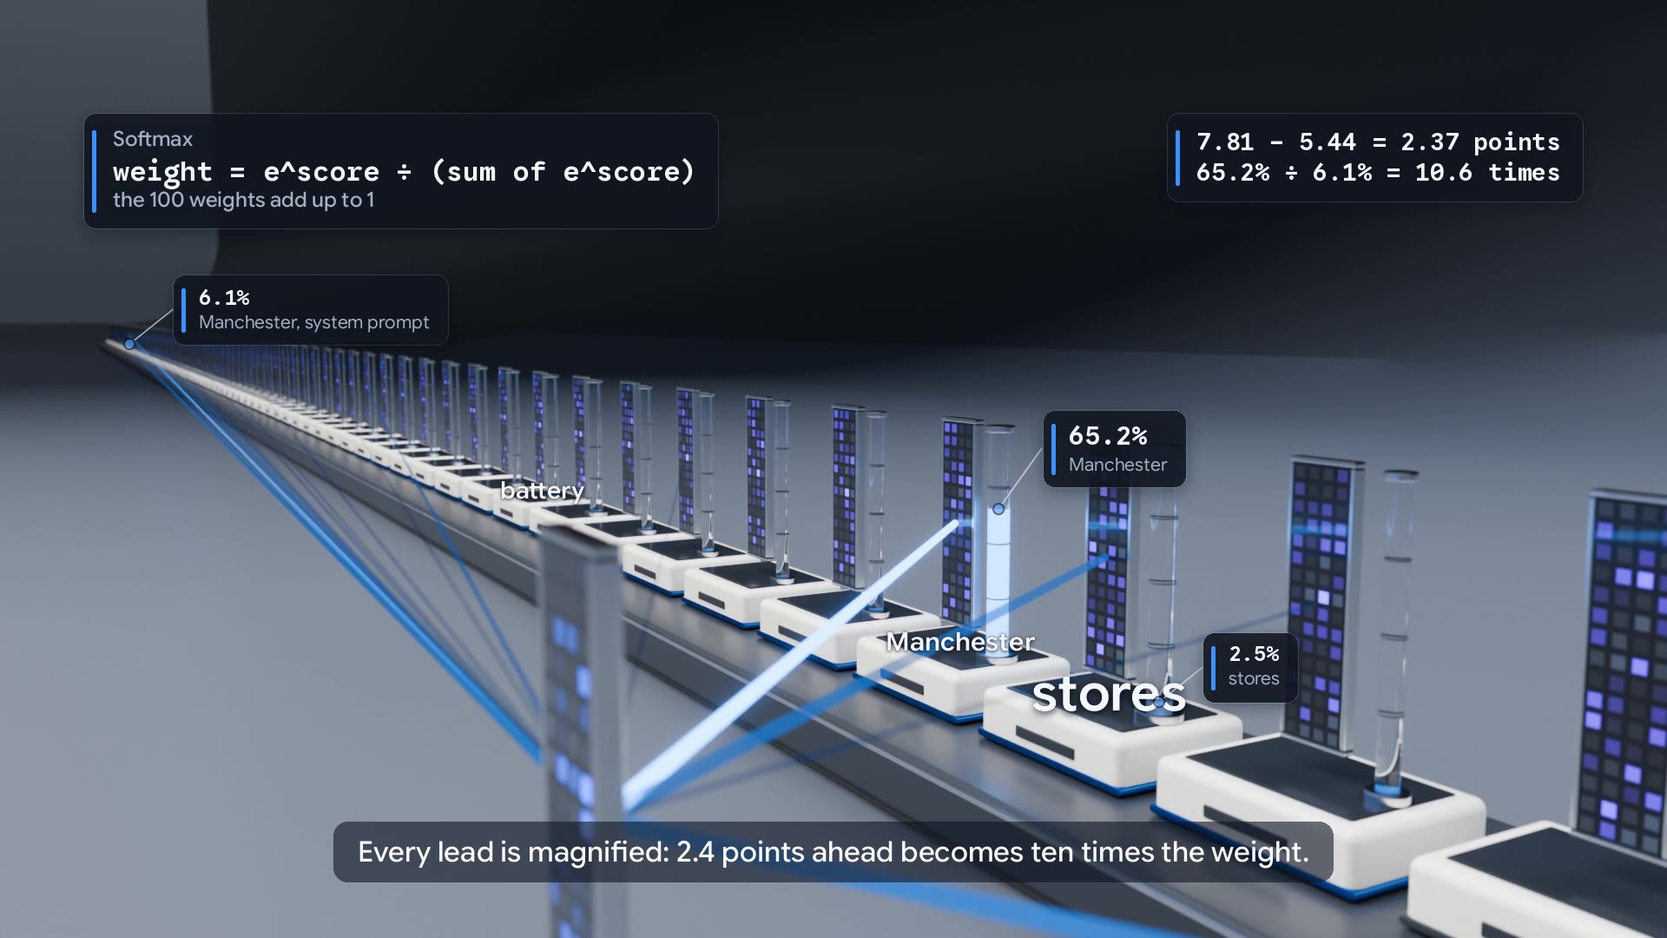
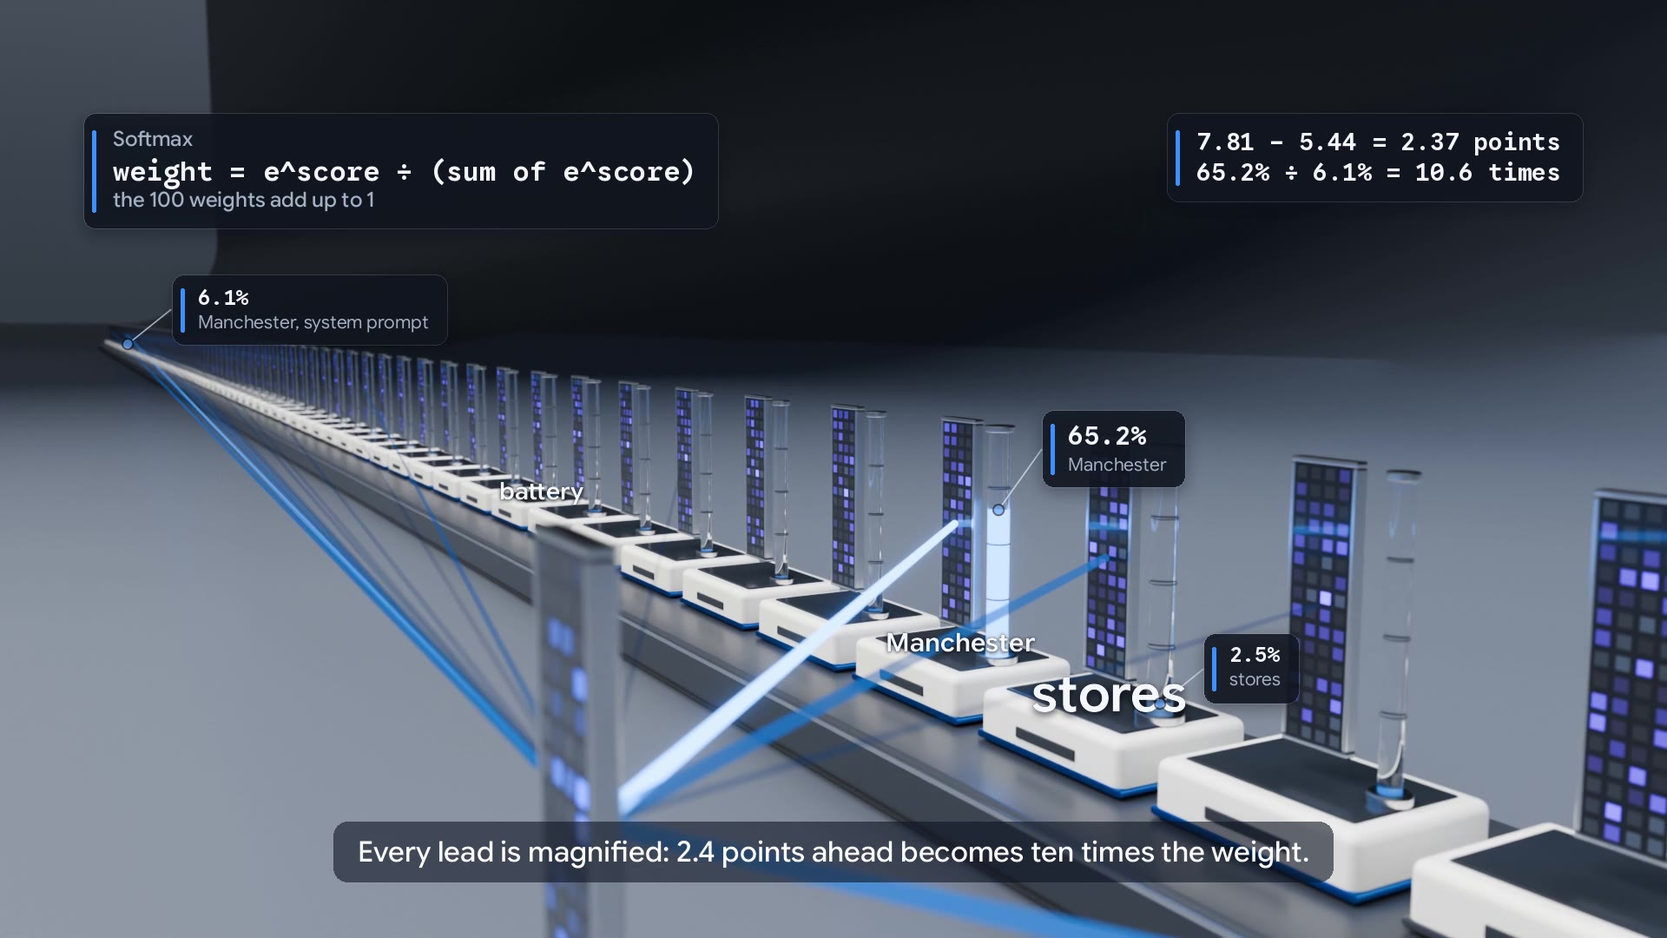
L2: structure film (blocks and heads) restored in section 5; all 13 films on the Observatory music; qkv without blocks or heads

diff --git a/lectures/L2-the-brain/index.html b/lectures/L2-the-brain/index.html
@@ -319,6 +319,11 @@
   </div>
 </section>
 
+<section class="slide" data-plate="Film · Blocks and heads">
+  <div class="lec-top" style="top:96px"><h2 style="font-size:44px">Film · Blocks and heads</h2></div>
+  <div class="fig" data-fig="film" data-name="structure" data-what="the structure: 24 blocks, 14 heads each." style="left:250px;top:180px;width:1100px;height:619px"></div>
+</section>
+
 <section class="slide" data-plate="Film · Attention, inside the model">
   <div class="lec-top" style="top:96px"><h2 style="font-size:44px">Film · Attention, inside the model</h2></div>
   <div class="fig" data-fig="film" data-name="s4_attention" data-what="tokens looking back, with the real weights." style="left:250px;top:180px;width:1100px;height:619px"></div>

diff --git a/lectures/L2-the-brain/films/build/specs/structure.py b/lectures/L2-the-brain/films/build/specs/structure.py
@@ -45,7 +45,7 @@ def elements(tl):
                         {"text": "it never looks at the other tokens", "size": 24, "c": "slate"}]})
     E.append({"type": "pin", "anchor": "row_pin", "text": "Emma's question: 100 tokens", "sub": "one column per token  ·  first 16 of 896 numbers shown",
               "accent": "sky", "t0": w("b4", "tokens"), "t1": w("b4", "climb") - 0.2, "dx": -40, "dy": -70, "size": 28})
-    for i, nm in ((86, "battery"), (92, "Manchester"), (99, "position 100")):
+    for i, nm in ((86, "battery"), (92, "Manchester"), (99, "the last token")):
         E.append({"type": "tag", "anchor": f"row_c{i}", "text": nm, "t0": w("b4", "bottom"), "t1": w("b4", "climb") - 0.2, "size": 22,
                   "hl": "sky" if i == 99 else None, "place": "tc", "dy": 40 if i == 92 else 8, "mono": False, "maxdepth": 6})
     E.append({"type": "chip", "x": 96, "y": 130, "t0": w("b4", "every"), "t1": en("b4") + 0.4, "accent": "sky",

diff --git a/lectures/L2-the-brain/films/FILMS.md b/lectures/L2-the-brain/films/FILMS.md
@@ -1,29 +1,31 @@
 # Lecture 2 films (The Brain)
 
-Eleven narrated Blender Cycles films on Emma's question ("How many city e-bike battery packs do we have in Manchester stores?"), the same example the slides teach, run through Qwen2.5-0.5B-Instruct. Each film plays at the **end** of its section as the recap, after the theory. Every number on screen comes from a recorded run (`../brain3d/trace.json`, `qkv_data.json`, `../experiments/logs/`).
+Thirteen narrated Blender Cycles films on Emma's question ("How many city e-bike battery packs do we have in Manchester stores?"), the same example the slides teach, run through Qwen2.5-0.5B-Instruct. Each film plays at the **end** of its section as the recap, after the theory. Every number on screen comes from a recorded run (`../brain3d/trace.json`, `qkv_data.json`, `../experiments/logs/`).
 
 Embed with `<video controls preload="metadata" poster="films/<name>.jpg">` and two `<source>` lines (`.webm` first, then `.mp4`). Never autoplay. Files: `films/<name>.mp4` (H.264, faststart), `films/<name>.webm` (VP9 + Opus) and `films/<name>.jpg` (poster). All are 1920x1080 at 30 fps, mixed to -16 LUFS integrated, true peak about -1.5 dBFS.
 
 | Base name | Plays at the end of section | Duration | mp4 | webm |
 |---|---|---|---|---|
-| `overture` | Lecture opener (before section 1) | 0:41 (41.3 s) | 21.4 MB | 21.7 MB |
-| `s1_game` | 1 | 1:18 (77.7 s) | 24.2 MB | 24.5 MB |
-| `s2_tokens` | 2 | 1:49 (108.6 s) | 24.2 MB | 26.4 MB |
-| `s3_vectors` | 3 | 1:22 (82.5 s) | 24.1 MB | 25.8 MB |
-| `qkv` | 4, after the Q/K/V theory | 2:26 (146.2 s) | 24.3 MB | 26.1 MB |
-| `s4_attention` | 4, end | 1:26 (86.3 s) | 24.2 MB | 25.3 MB |
-| `s5_blocks` | 5 | 1:13 (72.6 s) | 24.2 MB | 25.0 MB |
-| `s6_choice` | 6 | 1:14 (73.6 s) | 23.8 MB | 25.4 MB |
-| `s7_loop` | 7 | 1:15 (74.6 s) | 24.0 MB | 23.9 MB |
-| `s8_weights` | 8 | 1:23 (83.2 s) | 24.2 MB | 26.5 MB |
-| `s9_fix` | 9 | 1:13 (72.7 s) | 24.1 MB | 24.9 MB |
+| `overture` | lecture opener | 0:46 (45.9 s) | 23.6 MB | 24.8 MB |
+| `s1_game` | 1 | 1:22 (82.5 s) | 24.2 MB | 24.5 MB |
+| `s2_tokens` | 2 | 1:34 (93.9 s) | 24.1 MB | 25.6 MB |
+| `s3_vectors` | 3 | 1:22 (82.5 s) | 24.0 MB | 25.6 MB |
+| `qkv` | 4 (end): attention, the mechanism | 2:26 (146.5 s) | 24.3 MB | 25.8 MB |
+| `structure` | 5 (start): 24 blocks, 14 heads | 1:19 (79.0 s) | 23.7 MB | 26.3 MB |
+| `s4_attention` | 5: what the real heads look at | 1:26 (86.3 s) | 24.1 MB | 25.2 MB |
+| `s5_blocks` | 5 (end) | 1:13 (72.6 s) | 24.2 MB | 24.7 MB |
+| `s6_choice` | 6 | 1:14 (73.6 s) | 23.8 MB | 25.3 MB |
+| `s7_loop` | 7 | 1:15 (74.6 s) | 24.0 MB | 23.7 MB |
+| `s8_weights` | 8 | 1:23 (83.2 s) | 24.1 MB | 26.4 MB |
+| `s9_fix` | 9 | 1:13 (72.7 s) | 24.0 MB | 24.7 MB |
+| `finale` | lecture close: the whole machine | 1:54 (114.3 s) | 24.0 MB | 25.2 MB |
 
 ## Look and sound (one series)
 
 - **World:** one shared kit, `build/kit/l2kit.py`. It is a "midnight slate" studio: a deep blue-grey sweep graded to black, one big soft key, a cool rim light, a low warm fill, and lights hidden from reflections. The set has a dark graphite plinth with an aluminium trim and ceramic token tiles with smoked-glass faces and role bands (sky for Emma, slate for system, warm grey for chat markers).
 - **Props:** vectors are dark-glass plates in machined frames whose cells glow with the real values (query sky, key violet, value warm white). Glass columns fill with light to show scores and weights. Light beams and arcs carry attention. The model is a 24-floor block stack with 14 head modules per floor. Rendered on Modal (L40S, Cycles, 96 samples, OIDN).
 - **Text:** all readable text is a 2D overlay in Google Sans Flex / Google Sans Code (`build/overlay.py`): dark-glass pinned cards, formula chips, typed titles, subtitles and an end card. Hero tokens carry their word on the tile face; small labels appear only on tiles at least ~40 px wide, never overlap, and are never truncated.
-- **Sound:** narration by ElevenLabs Daniel (`onwK4e9ZLuTAKqWW03F9`, eleven_multilingual_v2, speed 1.08). The music bed is "Tried-And-True" by Imprismed (Epidemic Sound), ducked under the voice with a sidechain compressor. It is different from L1's "Envision" and lives in `films/music/`, which is gitignored. A designed SFX set (`build/sfx/`, ElevenLabs sound generation) adds tile, rise, beam, fill, chime, tick, bloom, merge, resolve and whoosh sounds.
+- **Sound:** narration by ElevenLabs Daniel (`onwK4e9ZLuTAKqWW03F9`, eleven_multilingual_v2, speed 1.08). The music bed is L1's track, "Observatory" by Out To The World (Epidemic Sound), in every film (Rajat, 31 Oct). `overlay.mix_audio` levels it against the voice: about 26 dB under the narration while Daniel speaks and 22 dB under in the gaps, with 0.4 s ramps. The whole mix is then two-pass loudness-normalised to -16 LUFS. The file lives in `films/music/`, which is gitignored. A designed SFX set (`build/sfx/`, ElevenLabs sound generation) adds tile, rise, beam, fill, chime, tick, bloom, merge, resolve and whoosh sounds.
 
 ## How to rebuild
 ```sh
@@ -37,7 +39,7 @@ The Modal volume is `video-ad-edit:/l2films` in workspace rajatworkspace. Scenes
 
 ## The films
 
-### `overture`: The Brain (section Lecture opener (before section 1))
+### `overture`: The Brain (lecture opener)
 
 **Shots.** Emma's question lights tile by tile on the strip; a slow pass over the 24-floor stack as it runs; the ember "100" lands beside the green Ledgerline plaque "5,400".
 
@@ -47,11 +49,11 @@ The Modal volume is `video-ad-edit:/l2films` in workspace rajatworkspace. Scenes
 
 > One question. How many city e-bike battery packs do we have in Manchester stores?
 >
-> One hundred tokens go in. Twenty-four blocks of a real language model turn them over. At every step, one token is chosen from 151,936.
+> One hundred tokens go in. Twenty-four blocks of a real language model read them all, in one pass, and at the end one token is chosen, from 151,936. Then the pass runs again, for the next token.
 >
 > And out comes a confident answer: 100. The truth is 5,400. Today we open the machine, and find out where that number came from.
 
-### `s1_game`: The game: predict the next token (section 1)
+### `s1_game`: Next-token prediction (section 1)
 
 **Shots.** Sealed model enclosure (24-floor stack seen through a frosted window) fed by the 100-tile strip; next-token glass columns on a tray (We 56.4, As 7.9, Manchester 6.1, In 5.3, Our 4.2, At 2.8); the "We" tile flies to the strip, " currently", " have", " " join; digit columns (1 33.6, 2 20.8, 5 11.6, 3 11.3, 4 8.8, 6 4.4); the enclosure opens and the stack glows.
 
@@ -59,21 +61,21 @@ The Modal volume is `video-ad-edit:/l2films` in workspace rajatworkspace. Scenes
 
 **Script** (subtitles; the voice reads the same sentences with the numbers spelled out):
 
-> Here is the whole idea of a language model, as one game. Text goes in. Out comes a guess: which token comes next?
+> Here is the whole idea of a language model. Text goes in, and the model predicts the next token.
 >
-> We give it Emma's question, with the app's instructions in front: 100 tokens. The model reads them all and gives a score to every token it knows. Turned into probabilities, the top of the list looks like this.
+> It reads Emma's question, with the app's instructions in front: 100 tokens, in one pass. At the end of that pass, it gives a probability to every entry in its vocabulary, all 151,936. The top of the list looks like this.
 >
 > We: 56 percent. As: 8. Manchester: 6. In: 5. The model is not certain. It is placing bets.
 >
-> Pick one, add it to the text, and play again. A few tokens later, the answer reaches its number. Now the bets are on a digit. One: 34 percent. Two: 21. Five: 12.
+> One token is chosen and added to the text. Then the whole pass runs again, once for every new token. A few tokens later, the answer reaches its number. Now the bets are on a digit. One: 34 percent. Two: 21. Five: 12.
 >
 > Nothing here looks anything up. Every word of the answer, the number too, is a bet like this one. The rest of the lecture opens the box, to see how the bets are made.
 
 ### `s2_tokens`: What you send, cut into tokens (section 2)
 
-**Shots.** The question as one bar cut by a light blade into 15 tiles with ids; the chat as 100 tiles (72 system, 15 Emma, 13 markers); macros on Manchester (19361), North+bridge (4787, 13709), 5,400 as 5 , 4 0 0 (ids 20 11 19 15 15); the hand BPE run from bpe.json (battery and packs fusing, 86 to 36 tokens); the vocabulary rack (1,187 bands of 128 rows) with the drawer of 22 special rows and 271 padding rows.
+**Shots.** The question as one bar cut by a light blade into 15 tiles with ids; the chat as 100 tiles (72 system, 15 Emma, 13 markers); macros on Manchester (19361), North+bridge (4787, 13709), 5,400 as 5 , 4 0 0 (ids 20 11 19 15 15); the hand BPE run from bpe.json (battery and packs fusing, 86 to 36 tokens); the vocabulary: 151,643 pieces plus 22 special tokens = 151,665, one row each in the model's table.
 
-**Numbers from.** brain3d/trace.json (tokens, number_cuts); experiments/logs/bpe.json (hand BPE run); films/qkv_data.json vocab block (151,643 BPE pieces + 22 special = 151,665; config.vocab_size 151,936 = 1,187 x 128; 271 padding rows).
+**Numbers from.** brain3d/trace.json (tokens, number_cuts); experiments/logs/bpe.json (hand BPE run); films/qkv_data.json vocab block (151,643 BPE pieces + 22 special = 151,665; the film shows only these).
 
 **Script** (subtitles; the voice reads the same sentences with the numbers spelled out):
 
@@ -85,7 +87,7 @@ The Modal volume is `video-ad-edit:/l2films` in workspace rajatworkspace. Scenes
 >
 > Where do the pieces come from? From byte pair encoding. Start with single bytes, then keep merging the pair that appears most often in a huge pile of text. Qwen's tokenizer learned 151,643 pieces this way.
 >
-> Add 22 special tokens, like the markers in Emma's chat, and you get 151,665. The model's table has a few more rows: 151,936. That is 1,187 times 128, a size GPUs handle well. No token ever uses the extra 271 rows.
+> Add 22 special tokens, like the markers in Emma's chat, and the tokenizer knows 151,665 pieces. The model keeps one row in its table for each.
 >
 > So: 100 tokens in. That is what Emma's question costs, and exactly what the model reads.
 
@@ -109,31 +111,49 @@ The Modal volume is `video-ad-edit:/l2films` in workspace rajatworkspace. Scenes
 >
 > So the strip of tiles is now a row of 100 columns, each one a point in meaning. Next, those columns start to talk to each other.
 
-### `qkv`: Query, key and value (section 4, after the Q/K/V theory)
+### `qkv`: Query, key and value (section 4 (end): attention, the mechanism)
 
-**Shots.** b1 dolly along Emma's tokens to the last position (it lights); b2 query, key and value plates rise from every tile; b3 the last token's 896-number vector through three machined matrices W_Q, W_K, W_V prints q, k, v; b4 the query plate turns to face the keys, beams go out to all 100 keys; macro: query and Manchester's key open like a book, cells light pair by pair, the glass column follows the real running sum of q_i x k_i to 62.5; every column fills to its dot product; b5 scores (÷8): Manchester 7.81, Manchester in the system prompt 5.44, stores 4.54, battery 1.36; b6 softmax reallocates the light: 65.2%, 6.1%, 3.9%, 2.5%; b7 the weighted values slide into one bright output plate (64 real numbers); b8 the output docks into head 2 on floor 24 of the block stack, the 14 heads and then all 24 floors light.
+**Shots.** b1 dolly along Emma's tokens to the last token (it lights); b2 query, key and value plates rise from every tile; b3 the last token's 896-number vector through three machined matrices W_Q, W_K, W_V prints q, k, v (64 numbers each); b4 the query plate turns to face the keys and beams go out to all 100 keys; macro: query and Manchester's key open like a book, cells light pair by pair, the glass column follows the real running sum of q_i x k_i to 62.5; every column fills to its dot product; b5 scores (divided by 8): Manchester 7.81, Manchester in the system prompt 5.44, stores 4.54, battery 1.36; b6 softmax reallocates the light (65.2%, 6.1%, 3.9%, 2.5%); b7 the weighted values slide into one bright output plate; b8 the new vector drops back into the last token's tile and a light arc ties it to Manchester. No blocks, heads or positions are named (Rajat, 31 Oct): it is "one attention unit" (recorded: block 24, head 2).
 
 **Numbers from.** films/qkv_data.json (capture_trace.py --film-qkv 1 on Modal CPU: q, k, v of block 24 head 2 recomputed from the block's projections and rotary embedding; softmax(q·k/8) matches the model's own attention to 1.2e-7; vocab sizes from the tokenizer and config); brain3d/trace.json (tokens, roles).
 
 **Script** (subtitles; the voice reads the same sentences with the numbers spelled out):
 
-> Emma's question is now a row of 100 tokens. The last one sits at the very end, where the answer is about to begin. Before the model writes a word, this position has to find out which earlier tokens matter.
+> Emma's question is now a row of 100 tokens. The last one sits at the very end, where the answer is about to begin. Before the model writes a word, this last token has to find out which earlier tokens matter.
 >
 > Attention gives every token three new vectors. A query: what am I looking for? A key: what do I contain? And a value: what I will pass on, if I am chosen.
 >
-> All three are made from the token's own vector, by three learned matrices. In block 24, head 2, each one is 64 numbers long.
+> All three are made from the token's own vector, by three learned matrices. In this attention unit, each one is 64 numbers long.
 >
-> Now the last position sends out its query, to every key so far, its own included. Multiply query and key, number by number, and add it all up. That is a dot product: one score per token. When the two point the same way, the score is high.
+> Now the last token sends out its query, to every key in the row, its own included. Multiply query and key, number by number, and add it all up. That is a dot product: one score per token. When the two point the same way, the score is high.
 >
-> Divided by 8, the square root of 64, the scores come out like this. Manchester, in Emma's question: 7.8. The Manchester in the system prompt: 5.4. Stores: 4.5. And battery, only 1.4. This head is looking for a place, not an item.
+> Divided by 8, the square root of 64, the scores come out like this. Manchester, in Emma's question: 7.8. The Manchester in the system prompt: 5.4. Stores: 4.5. And battery, only 1.4. This attention unit is looking for a place, not an item.
 >
-> Softmax turns the scores into weights that add up to one. Every lead is magnified: 2.4 points ahead becomes ten times the weight. Manchester now takes 65 percent. The other 99 positions share the rest.
+> Softmax turns the scores into weights that add up to one. Every lead is magnified: 2.4 points ahead becomes ten times the weight. Manchester now takes 65 percent. The other 99 tokens share the rest.
 >
 > Then the values. Each one steps forward, scaled by its weight. Manchester, at almost full strength. The rest, faint. Added together, they make one new vector of 64 numbers.
 >
-> That is what this head passes up: mostly, what Manchester means in this sentence. The query asks, the keys answer, and the values are mixed by how well they matched. Fourteen heads do this side by side, in each of 24 blocks.
+> That new vector goes back to the last token, which now carries what it found: mostly, what Manchester means in this sentence. The query asks, the keys answer, and the values are mixed by how well they matched. That is attention.
 
-### `s4_attention`: Attention: tokens look back (section 4, end)
+### `structure`: Inside the model: 24 blocks (section 5 (start): 24 blocks, 14 heads)
+
+**Shots.** The 24-floor block stack (494,032,768 parameters); one block close up: the attention bay with 14 head modules side by side, then the feed-forward bay (896 to 4,864 to 896); Emma's 100 tokens enter at the bottom as a row of real vector cells (first 16 of 896 per token, recorded after every block in build/data/structure_data.json by build/capture_structure.py), come out changed, and climb all 24 blocks; ends on "next, what the heads look at".
+
+**Numbers from.** brain3d/trace.json, films/qkv_data.json and build/data/structure_data.json; every on-screen number was checked against them.
+
+**Script** (subtitles; the voice reads the same sentences with the numbers spelled out):
+
+> This is the inside of the model: a stack of 24 blocks, one on top of another, all built the same way.
+>
+> Each block has two parts. The first is attention, made of 14 heads working side by side. Each head lets a token look back at the tokens before it.
+>
+> The second part is the feed-forward network, 4,864 numbers wide. It works on each token's vector by itself, without looking at the others.
+>
+> Now send in Emma's question. All 100 tokens enter at the bottom, each one a vector of 896 numbers. In every block, attention lets each token gather from the ones before it, then the feed-forward part reworks each vector on its own. All 100 vectors come out changed, and climb to the next block.
+>
+> After 24 blocks, the vectors reach the top. Next, we open attention, and see what the heads look at.
+
+### `s4_attention`: Attention: tokens look back (section 5: what the real heads look at)
 
 **Shots.** Columns rise; arcs from the last position, thickness = weight averaged over all heads and blocks (33.2% on <|im_start|>, 12.5% on itself); share by role (chat markers 62.8%, Emma 19.7%, system 17.4%); three heads in their own colours (block 24 head 2 65.2% Manchester; block 16 head 0 9.1% battery; block 12 head 13 100% on position 1); the causal mask as a glass wall after " battery" (its recorded row only looks back); the 24x14 head stack.
 
@@ -151,7 +171,7 @@ The Modal volume is `video-ad-edit:/l2films` in workspace rajatworkspace. Scenes
 >
 > Fourteen heads, side by side, in each of 24 blocks. Each one mixes what it found into the column, and passes it up.
 
-### `s5_blocks`: A block, then 24 of them (section 5)
+### `s5_blocks`: A block, then 24 of them (section 5 (end))
 
 **Shots.** One block close up (14 heads, then the MLP, 4,864 wide); 23 more floors drop in; the last position's column rides up the stack with its real 896 values after each block (vectors.lens_last); a logit-lens ladder fills in the top token per block (noise to 17, "we" at 18 with 1.6%, "We" 8.0 / 29.3 / 56.4% at 22-24); a "We" tile rises on top.
 
@@ -241,15 +261,42 @@ The Modal volume is `video-ad-edit:/l2films` in workspace rajatworkspace. Scenes
 >
 > The fix is not a bigger brain. It is the right facts, in front of it. Lecture 3 gives the model knowledge. Lecture 4 gives it tools.
 
+### `finale`: The whole machine (lecture close: the whole machine)
+
+**Shots.** One journey through the whole machine on Emma's question: 100 token tiles, vectors of 896 numbers, attention (the last token's query, 65.2% on Manchester), 24 blocks in one pass, scores against all 151,936 entries and softmax (We 56.4%), one token chosen, the loop, the digits 1 0 0 against Ledgerline's 5,400, and the fix: with the stock line in the prompt, the same model answers 5,400.
+
+**Numbers from.** brain3d/trace.json, films/qkv_data.json and build/data/structure_data.json; every on-screen number was checked against them.
+
+**Script** (subtitles; the voice reads the same sentences with the numbers spelled out):
+
+> Here is the whole machine, on one question. Emma asks: how many city e-bike battery packs do we have in Manchester stores?
+>
+> First, her chat is cut into tokens. One hundred tiles, each with its own number. Manchester is a single tile.
+>
+> Each tile looks up its vector: a column of 896 numbers, learned in training.
+>
+> Then attention. The last position sends out a query, and every key answers. In block 24, head 2, 65 percent of the weight lands on Manchester.
+>
+> Attention and a small network make one block. The column climbs all 24, in one pass, and near the top, an answer starts to form.
+>
+> At the top, it is scored against all 151,936 tokens. Softmax turns the scores into probabilities. We: 56 percent. As: 8. Manchester: 6.
+>
+> One token is chosen. It joins the strip, and the whole pass runs again. One token at a time.
+>
+> Then the number. One, at 34 percent. Zero. Zero. A confident 100. Ledgerline says 5,400.
+>
+> Nothing in the prompt carried the stock, so the model made a number up. Put the stock line into the prompt, and the same model answers 5,400. That is where we go next.
+
 ## Credits
 - Dr. Rajat Dandekar, Vizuara: Agentic Systems Engineering, Lecture 2.
 - Narration: ElevenLabs, voice "Daniel".
-- Music: "Tried-And-True" by Imprismed, licensed from Epidemic Sound (not redistributed in the repo).
+- Music: "Observatory" by Out To The World, licensed from Epidemic Sound (not redistributed in the repo).
 - Model: Qwen2.5-0.5B-Instruct (Apache 2.0), revision 7ae557604adf67be50417f59c2c2f167def9a775, recorded on Modal.
 - Rendering: Blender 4.2.3 Cycles on Modal; composite with Pillow and ffmpeg on Modal.
 
 ## Known rough edges
-- All eleven films were re-composited on Sat 31 Oct, 05:00 IST, with the series label rule (hero words on tile faces; no truncated or overlapping labels), one music bed level, two-pass loudness (-16.1 LUFS) and the s4 poster at the 65.2% moment. No re-render was needed.
+- 31 Oct revision (Rajat's review): L1's music at a quieter level in every film; s1 retitled "Next-token prediction" and re-narrated (one pass, one token chosen, the pass repeats per token); s2 no longer mentions 1,187 x 128 or padding; qkv says "one attention unit" and never names blocks or heads; new films `structure` and `finale`; the overture's line now says one token is chosen at the end of the pass.
+- All films were re-composited on Sat 31 Oct, 05:00 IST, with the series label rule (hero words on tile faces; no truncated or overlapping labels), one music bed level, two-pass loudness (-16.1 LUFS) and the s4 poster at the 65.2% moment. No re-render was needed.
 - Webm copies of s2, s3, s4, s5, s6, s8 and qkv are 25 to 26.5 MB, just over the 25 MB guideline. The mp4s are all under 25 MB.
 - s3: the narration names four of battery's neighbours (batteries, lithium, capacitor, charger); the screen shows the real top 6, which also include Batter and recharge.
 - s8: the big stack's weight cells are an illustrative pattern (labelled); the tiny GPT numbers are real.
